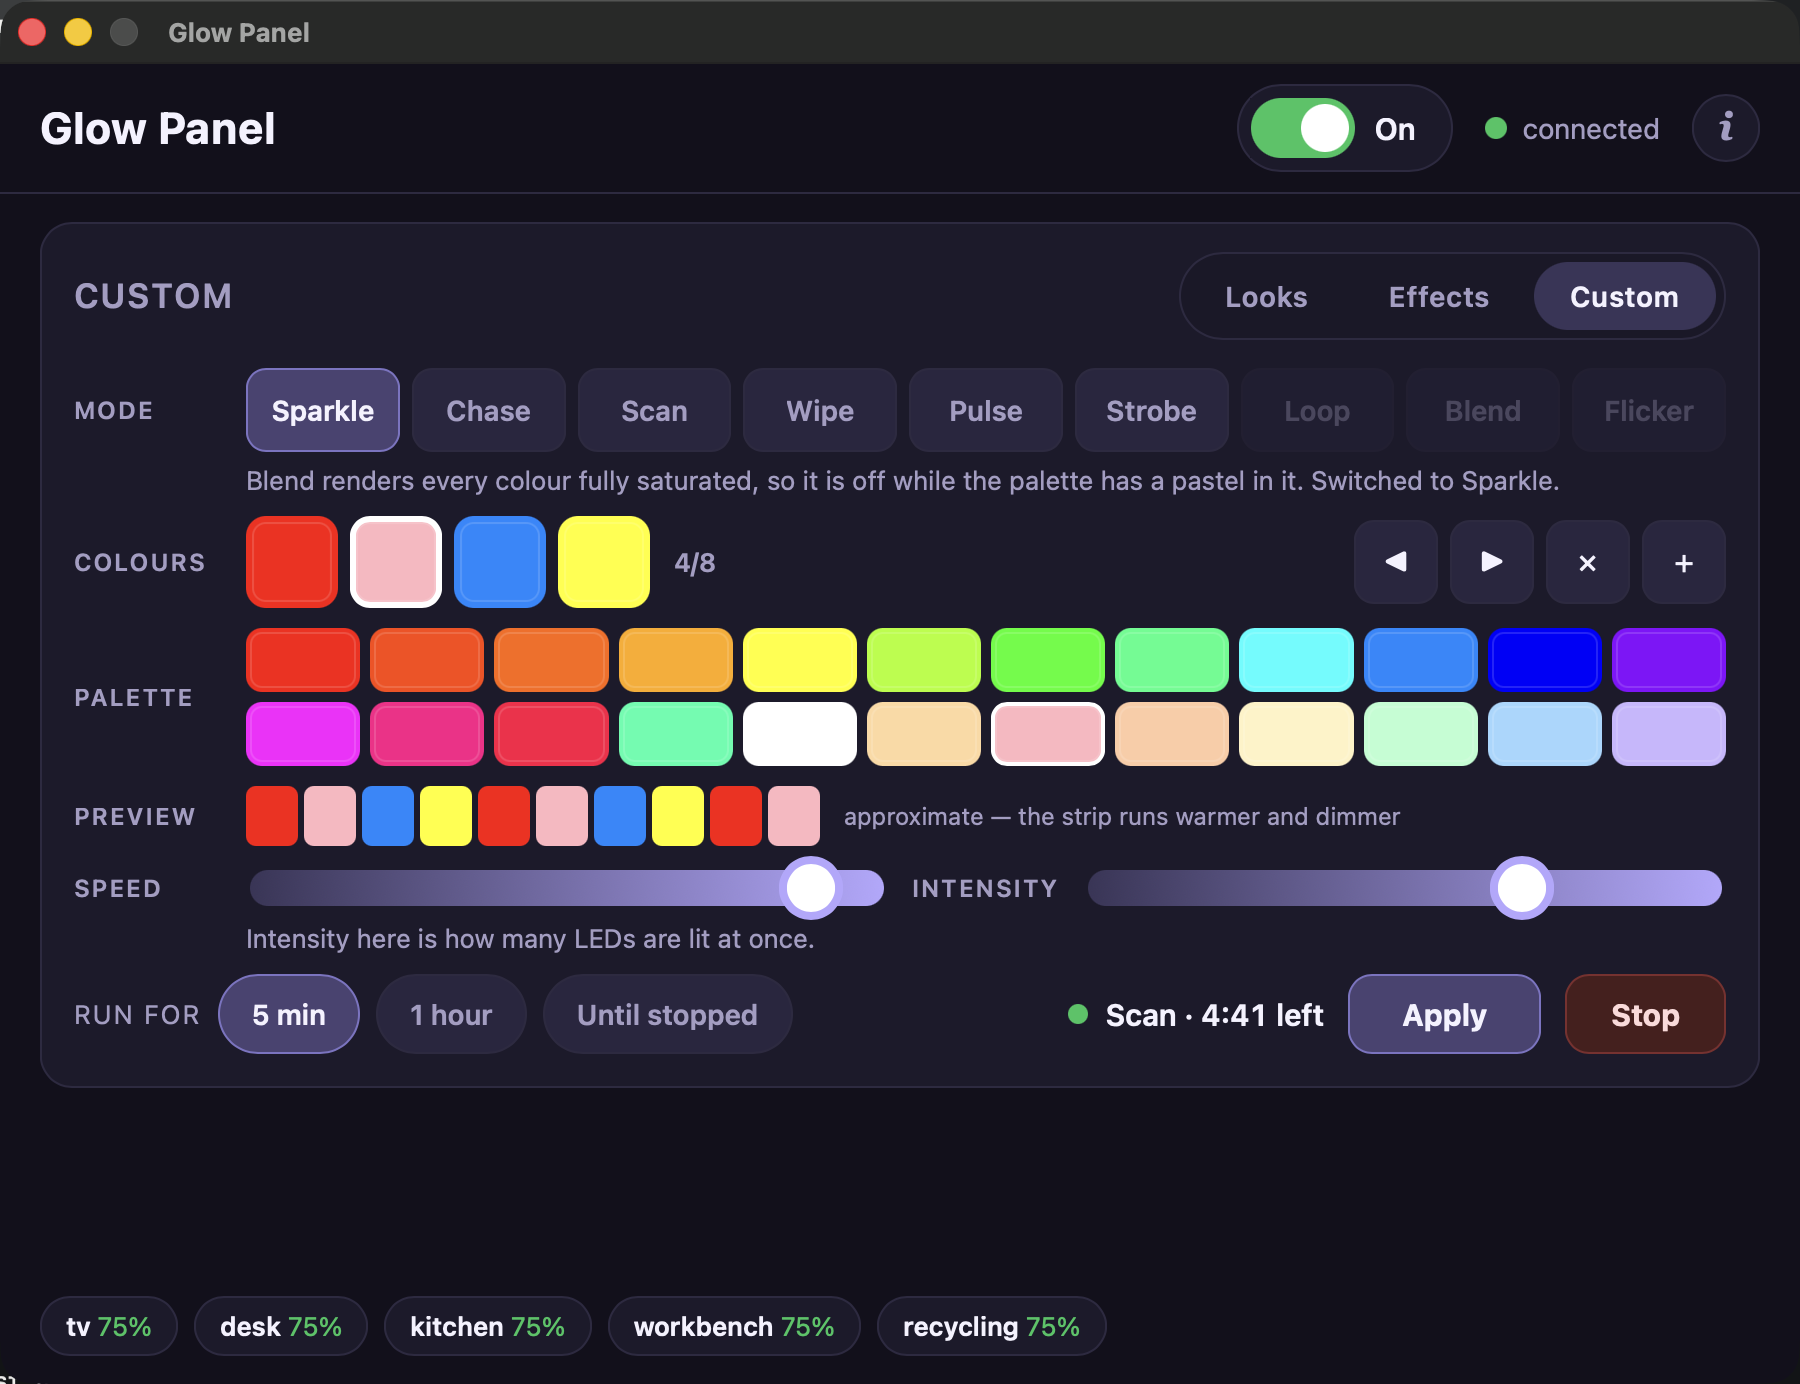
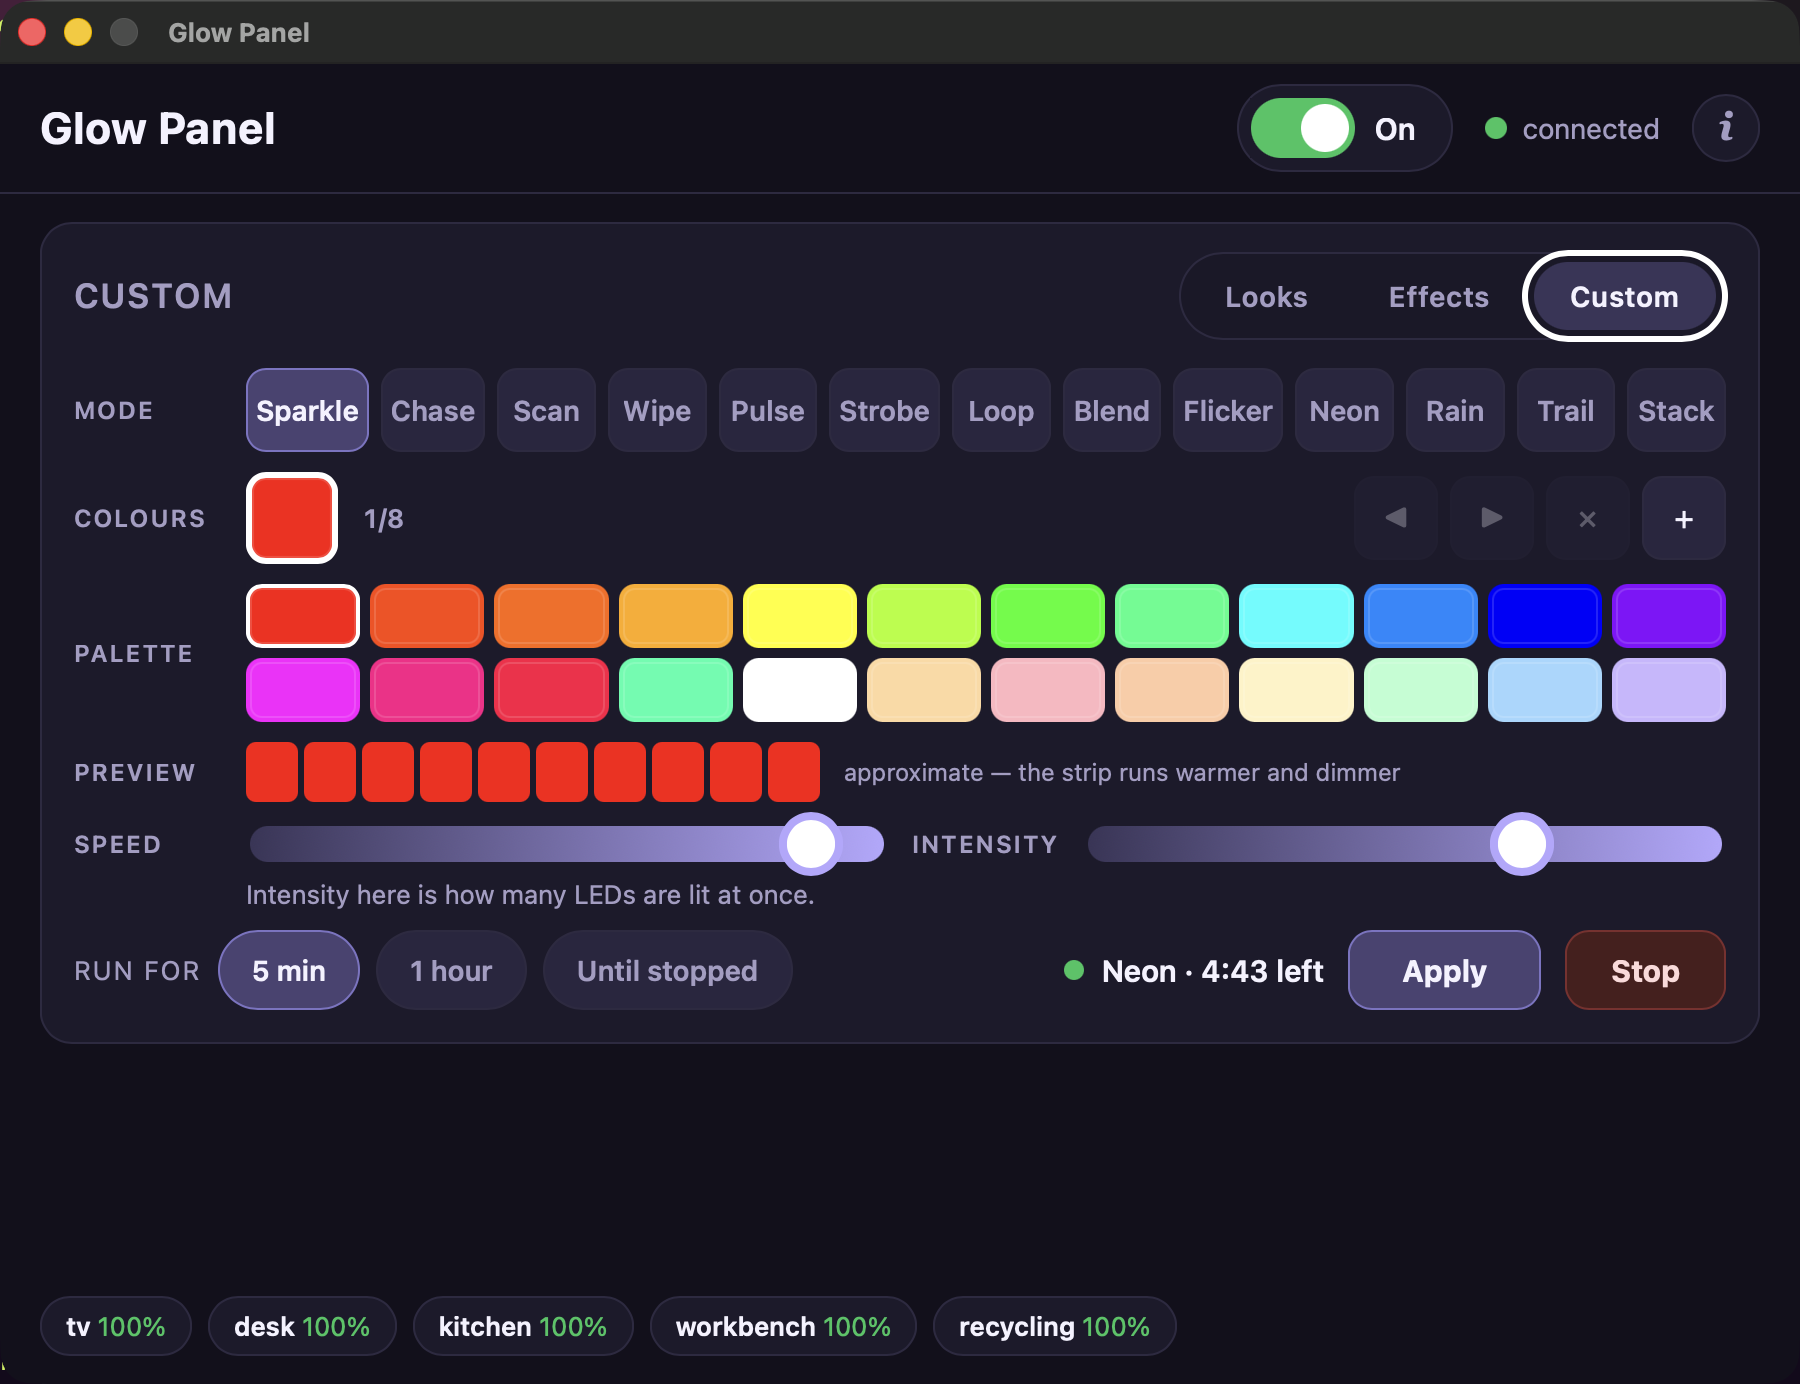
Move Cyberpunk to Neon, name the Mac bundle, retake the screenshots
Cyberpunk was the preset Neon was written for and was never moved onto it.
FLICKER applies one hue to the whole strip at a time, so the three colours
came out as the strip entirely blue, then entirely cyan, then entirely red -
a sign that changes colour rather than a sign with a red tongue. NEON indexes
the palette by position, in blocks of the device's ledsPerColor, so the blue
tube and the red one are lit at once.

build-mac.sh exists because the bundle has to be "Glow Panel.app" and the
Linux binary has to be "glowpanel", and Wails takes both from wails.json's
outputfilename. It stays "glowpanel" because install-desktop.sh installs
build/bin/glowpanel and glowpanel.desktop's Exec= names that path, so
changing it would break the Pi deploy silently, at install time rather than
at build time. `wails build -o "Glow Panel"` does not help: Wails v2.13
accepts the flag, prints it back as "Output File", and still writes
glowpanel.app. Renaming the bundle afterwards is all that was needed - macOS
finds the binary through CFBundleExecutable, which is still "glowpanel", and
CFBundleName and CFBundleDisplayName already said "Glow Panel". The script
verifies the signature survived the rename rather than assuming it.

The three screenshots were all from the previous preset set. They now show
the nine current presets, the thirteen modes in the builder, and a real
running effect.

Claude-Session: https://claude.ai/code/session_01Nd19DzC9nkSJT9mRDHKa6B

diff --git a/effects.go b/effects.go
@@ -65,17 +65,23 @@ var effects = []Effect{
 		TraverseMs: 1100},
 
 	// The dragon hoarding sign over the noodle bar in Blade Runner: cold blue
-	// neon with the red of its tongue running through it. FLICKER because the
-	// sign is a bad tube - it is never quite steady - and because FLICKER
-	// forces saturation to full, which these three vivid colours already are.
+	// neon with the red of its tongue running through it.
 	//
-	// Speed and intensity were dead here until the firmware gave FLICKER its
-	// knobs; both were carried over from Candle and did nothing. A neon tube is
-	// not a candle: it buzzes rather than gutters, and it drops out hard, so
-	// this now sits near the fast, deep end of both.
+	// NEON, not FLICKER, and this preset is why NEON exists. FLICKER applies
+	// one hue to the whole strip at a time, so these three came out as the
+	// strip entirely blue, then entirely cyan, then entirely red - a sign that
+	// changes colour rather than a sign with a red tongue. NEON indexes the
+	// palette by LED position, in blocks of the device's ledsPerColor, so the
+	// blue tube and the red one are lit at once and neither bleeds into the
+	// other.
+	//
+	// Speed and intensity were dead here until the firmware gave both modes
+	// their knobs; the values were carried over from Candle and did nothing. A
+	// neon tube is not a candle - it buzzes rather than gutters, and it drops
+	// out hard - so this sits near the fast, deep end of both.
 	{ID: "cyberpunk", Label: "Cyberpunk", Emoji: "🐉",
 		Color:  "linear-gradient(135deg,#0088ff,#00ffff 45%,#ff0000)",
-		Mode:   "FLICKER",
+		Mode:   "NEON",
 		Colors: []string{"#0088FF", "#00FFFF", "#FF0000"}, Speed: 205, Intensity: 215},
 
 	// The four ghosts, in the order they leave the pen. The colours are

diff --git a/README.md b/README.md
@@ -9,22 +9,22 @@ Does the same job as the `glow-*.sh` cron scripts, interactively.
 Runs on Raspberry Pi 3B, Raspberry Pi OS 13 (trixie), arm64, under the labwc
 Wayland session — and on macOS as a native `.app`.
 
-![GlowPanel showing the Looks tab: six theme buttons, a Looks/Effects toggle, a running-effect banner reading "Scan · 3:58 left" with a Stop button, the brightness slider at 75%, On/Off and connection status in the header, and per-strip status chips](GlowPanel.png)
+![Glow Panel on the Looks tab: six theme buttons — Rainbow, Green, Pink Pony, Ocean, Sunset, Forest — with Green selected, a Looks/Effects/Custom switch, the brightness slider at 100%, On/Off and connection status in the header, and per-strip chips along the bottom](GlowPanel.png)
 
 ## What it does
 
 - **Six theme buttons** with colour and emoji, sized for small hands
 - **Nine effect presets** behind a Looks/Effects/Custom switch, with a duration
   and a Stop button
-- **A custom effect builder** — any of the nine modes, one to eight colours from
-  a built-in palette, and the speed and intensity sliders
+- **A custom effect builder** — any of the thirteen modes, one to eight colours
+  from a built-in palette, and the speed and intensity sliders
 - **Brightness** 0–100% in steps of 5, converted to the firmware's 0–225 scale
 - **On / Off** as a switch in the header, next to the connection status
 - **Live status** per strip, pushed from `lights/+/state` as the strips report
 
 ## Effects
 
-![GlowPanel showing the Effects tab: nine preset buttons with Cylon selected, a Run For duration row with 5 min selected, and a banner reading "Scan · 4:26 left" beside a Stop button](GlowPanelEffects.png)
+![Glow Panel on the Effects tab: nine preset buttons — Dolly, Cylon, Cyberpunk, Pac-Man, Matrix, Fifth Element, Tron, Tetris, Phosphor — with Cyberpunk selected and running, a Run For row with 5 min chosen, and a banner reading "Neon · 4:45 left" beside a Stop button](GlowPanelEffects.png)
 
 A theme is a look the strips hold. An effect is something they *do* — it runs,
 it can time out, and when it stops the strips go back to whatever theme was
@@ -41,7 +41,7 @@ The other seven are ours:
 
 | Preset | Mode | Reference |
 |---|---|---|
-| **Cyberpunk** 🐉 | Flicker | The dragon hoarding over the noodle bar in *Blade Runner* — cold blue neon with the red of its tongue through it, on Flicker because the sign is a tube that is never quite steady |
+| **Cyberpunk** 🐉 | Neon | The dragon hoarding over the noodle bar in *Blade Runner* — cold blue neon with the red of its tongue through it, lit at once rather than one colour at a time |
 | **Pac-Man** 👻 | Chase | All four ghosts nose to tail, in [GlowGhosts](../../PlatformIO/GlowGhosts)' colours rather than the arcade's — see below |
 | **Matrix** 🟩 | Rain | Digital rain — drops at their own rates and lengths, each a bright head over a fading tail |
 | **Fifth Element** 🎤 | Neon | Ruby Rhod's leopard, gold and hot pink, lit at once and clashing on purpose |
@@ -86,9 +86,10 @@ They replaced the originals for Wipe, Chase, Flicker, Pulse, Strobe, Loop and
 Blend, which were a tour of the nine renderers: one preset per mode, a colour or
 two each, doing the plainest possible version of what that mode does. That is a
 good way to demonstrate firmware and a poor way to fill a grid someone presses.
-Picking the mode that serves the picture instead is why three presets are now
-Chase, two are Sparkle, and nothing at all is left on Wipe — the builder still
-reaches all nine modes, which is where the completeness belongs.
+Picking the mode that serves the picture instead is why two presets are now
+Neon and nothing at all is left on Wipe, Strobe, Blend, Loop or Flicker — the
+builder still reaches all thirteen modes, which is where the completeness
+belongs.
 
 **Effects share the theme panel rather than taking a second screen.** The
 brightness slider and the power switch stay reachable whichever grid is showing,
@@ -125,10 +126,10 @@ cap is on the mode rather than the preset, so the builder inherits it.
 
 ## The custom builder
 
-![The Custom tab: a mode row with Loop, Blend and Flicker greyed out, four colour swatches, a 24-colour palette, a preview strip, speed and intensity sliders, and Apply beside a running-effect banner](GlowPanelCustom.png)
+![The Custom tab: a row of all thirteen modes with Sparkle selected, one colour swatch, the 24-colour palette, a preview strip, speed and intensity sliders with a line saying what intensity means in the chosen mode, and Apply beside Stop](GlowPanelCustom.png)
 
 The presets are nine points in a space the firmware opens up entirely: any of
-the nine modes, any one to eight colours, any speed and intensity. The Custom
+the thirteen modes, any one to eight colours, any speed and intensity. The Custom
 tab is that space, and it takes the whole middle of the page — six rows of
 controls do not fit alongside the brightness panel at 900x660, so brightness
 stands down while composing and comes back on the other two tabs.
@@ -187,7 +188,7 @@ held a 60-LED strip to a 2.3s sweep when 1.1s was both asked for and perfectly
 readable. It is the right guard for a slider the user can drag anywhere, and the
 wrong one for a preset that has already said how fast it wants to cross.
 
-Order matters in six of the nine modes — the palette is the animation's
+Order matters in most of the thirteen modes — the palette is the animation's
 sequence, not just its ingredients — so swatches can be moved with ◀ and ▶.
 Sparkle is the exception: it lays colours out by LED position, which is why it
 is the one mode whose preview is a fair likeness rather than a single frame of
